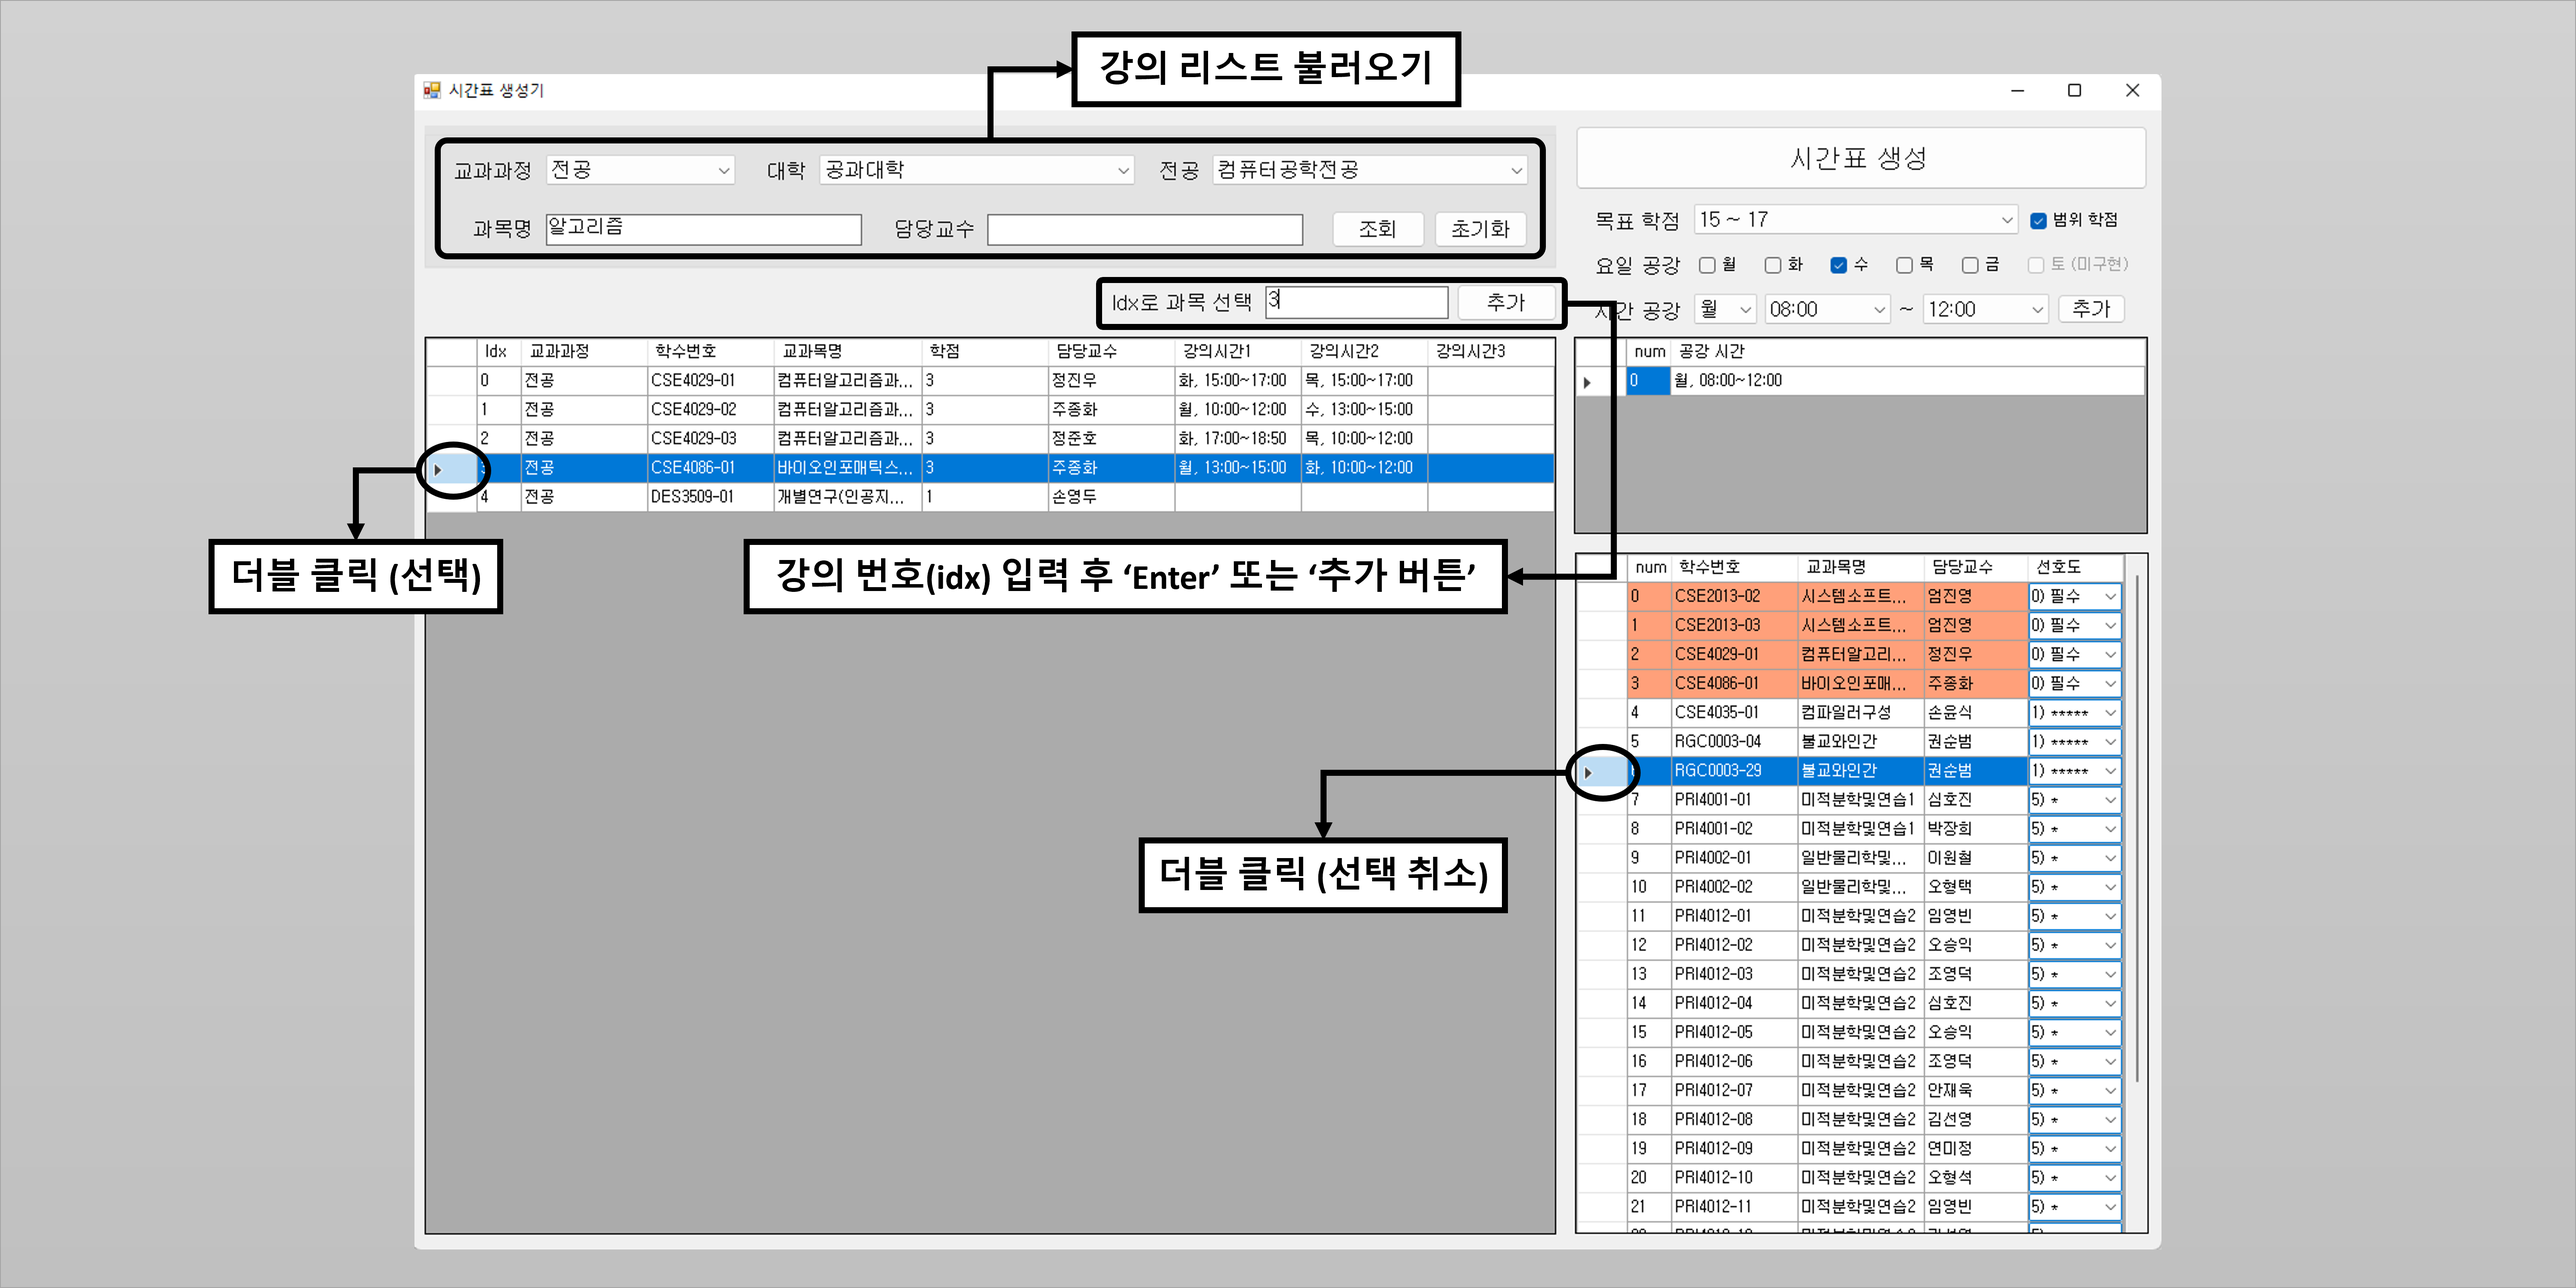
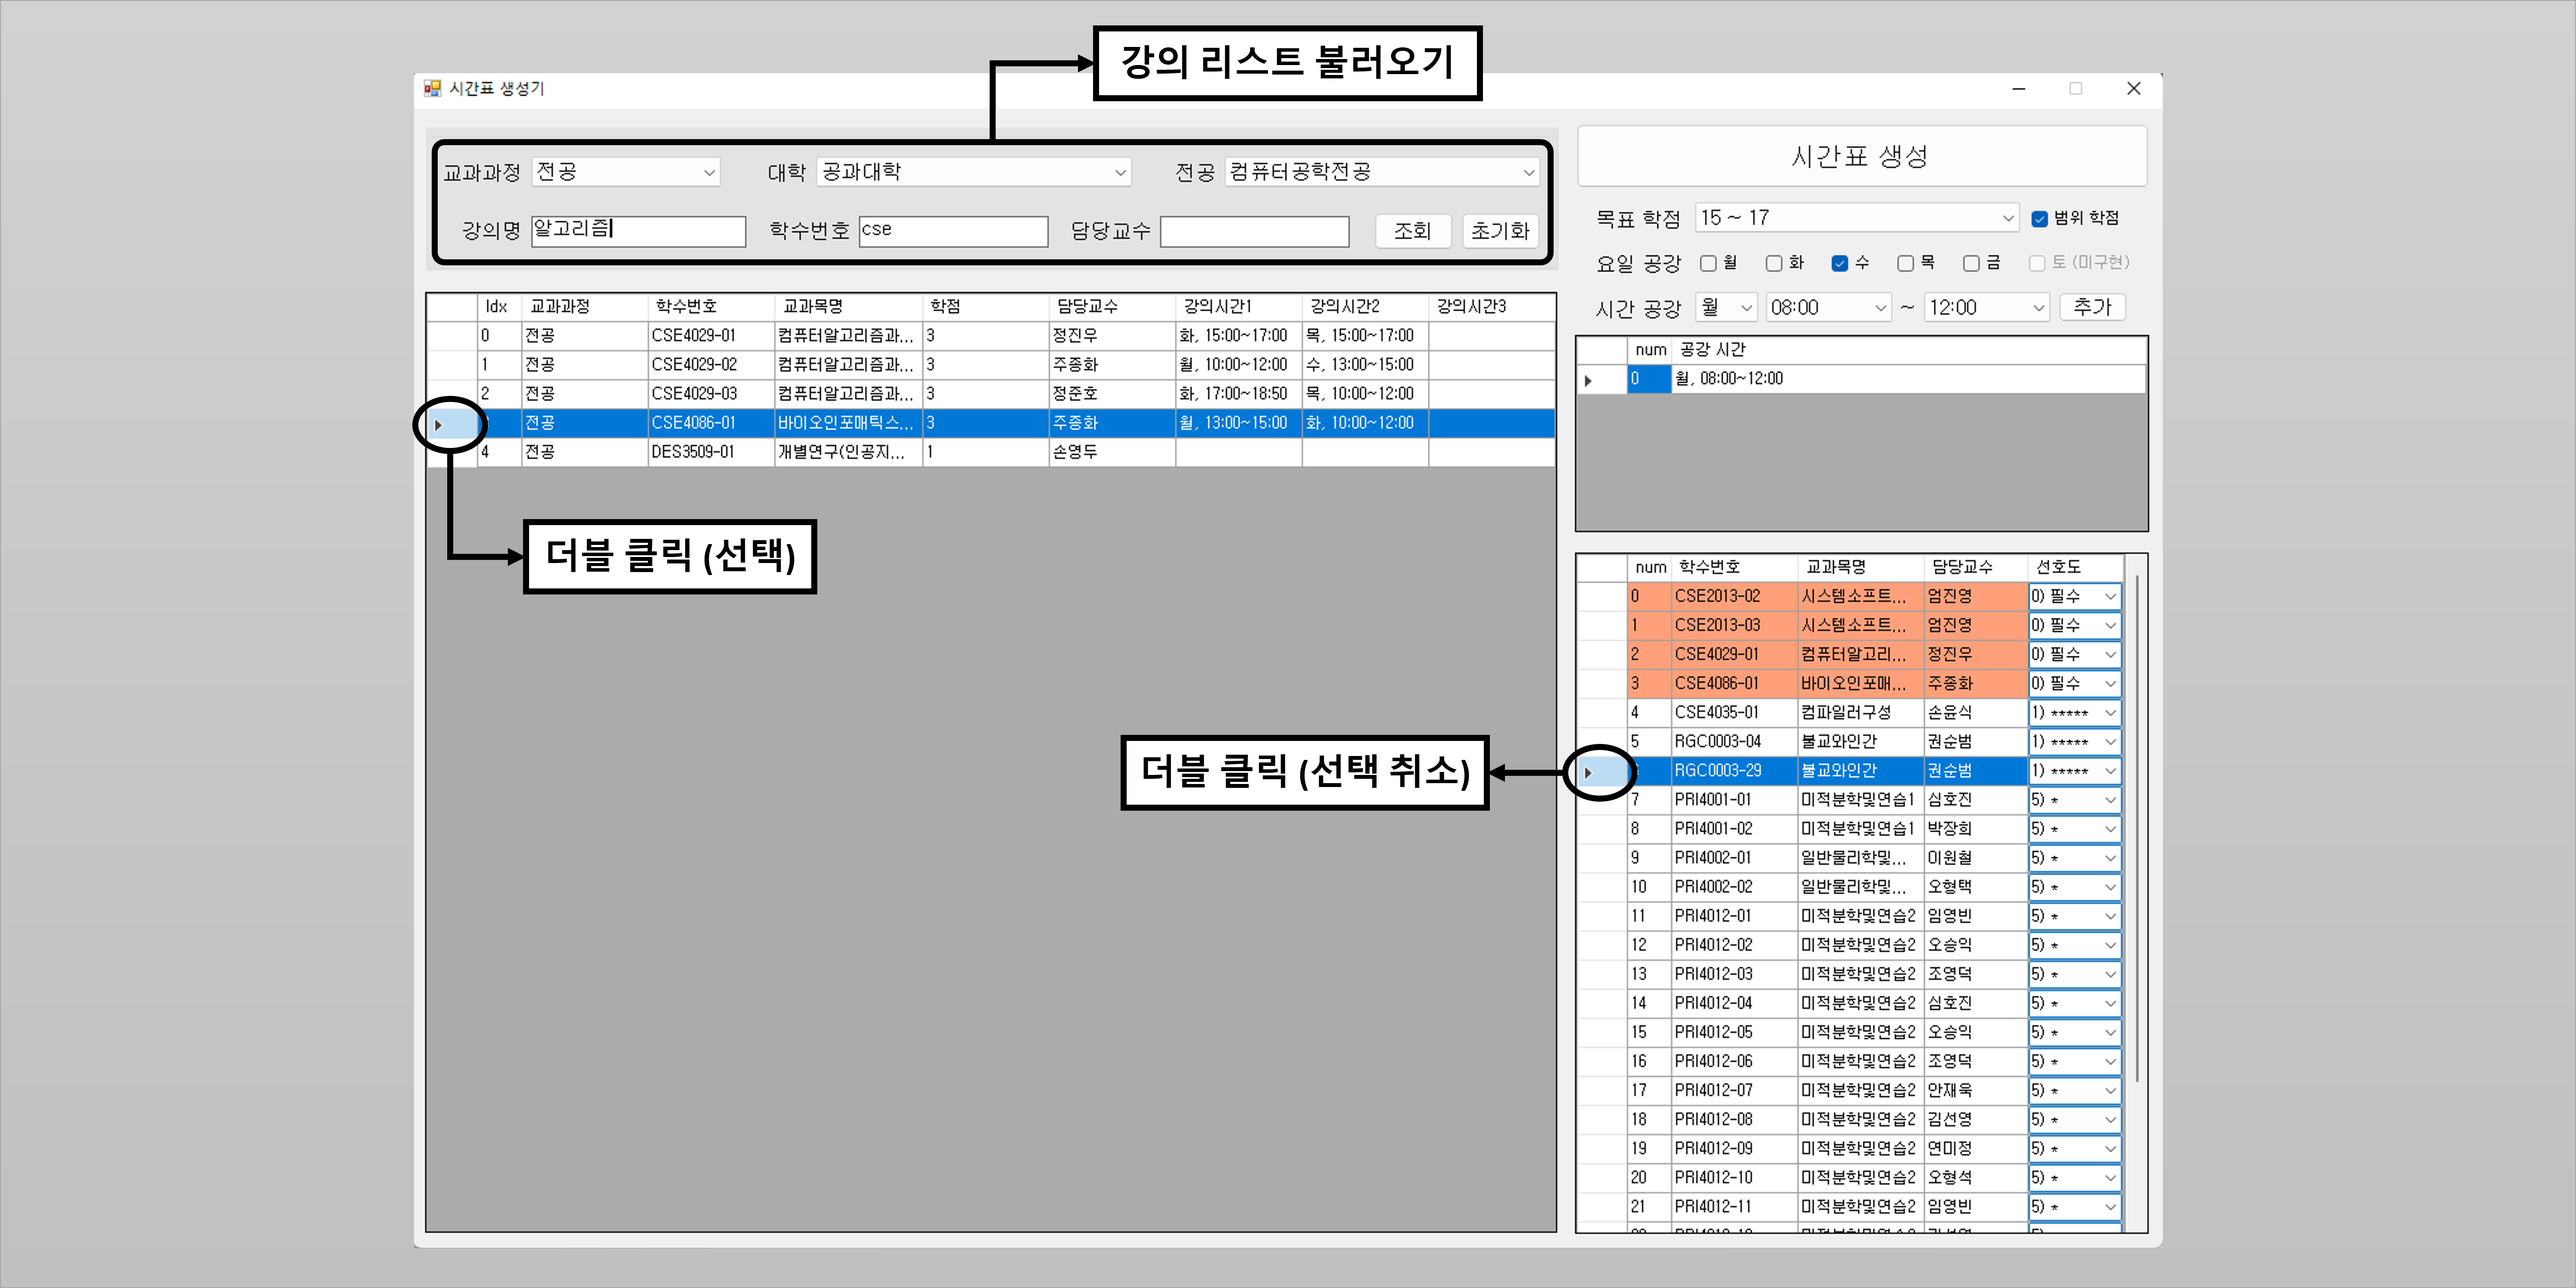
README ver 2.02

diff --git a/README.md b/README.md
@@ -17,30 +17,28 @@
 
 ### Beta2 업데이트 내역
 1) 강의 리스트 개선
-   - 카테고리(전공, 공통교양, 핵심교양 등) 선택 기능 추가
-   - 필터(교과목명, 담당교수) 기능 추가
+   - 카테고리(전공, 공통교양, 핵심교양 등) 추가
+   - 필터링(교과목명, 학수번호, 담당교수) 추가, Enter키 반응형 텍스트박스
+   - Tab키 이동 호환
 
 2) 학점 설정 개선
-   - 범위형 학점 설정 기능 추가
+   - 범위형 학점 설정 추가
 
 3) 공강 설정 추가
    - 요일 공강 추가
    - 시간 공강 추가
 
 4) 선호도 시스템 개선
-   - 동일 교과목 여러 개를 추가했을 때의 처리 개선
-      (Readme에 상세한 설명 첨부)
-   - 필수 과목에 색상 강조 추가
+   - 동일 교과목 여러 개를 추가한 경우에 대한 처리 개선(Readme에 상세한 설명 첨부)
+   - 필수 과목은 색상 강조
 
-5) 선택한 과목을 나타내는 UI개선
-   - 정렬 이벤트 후 포커스가 맨 위로 고정되는 현상 개선
-     이제는 포커스 위치가 유지
+5) 선택한 강의리스트 개선
+   - 정렬 이벤트 후에도 포커스 위치가 유지되도록 개선
 
 6) 시간표 개선
-   - 강의 블록을 분 단위로 표현
-     (기존: 30분 단위로 표현)
-   - 강의 블록 가시성 개선
-   - 강의 블록 선택 시 해당 강의정보를 나타내는 메시지 박스 생성
+   - 강의 블록을 분 단위로 표현(기존: 30분 단위로 표현)  
+   - 강의 블록을 클릭할 시 해당 강의정보를 나타내는 기능 추가
+   - 강의 블록의 색감을 변경하여 가시성 개선
 
 7) mDirms Reader모듈 구현
 </br>
